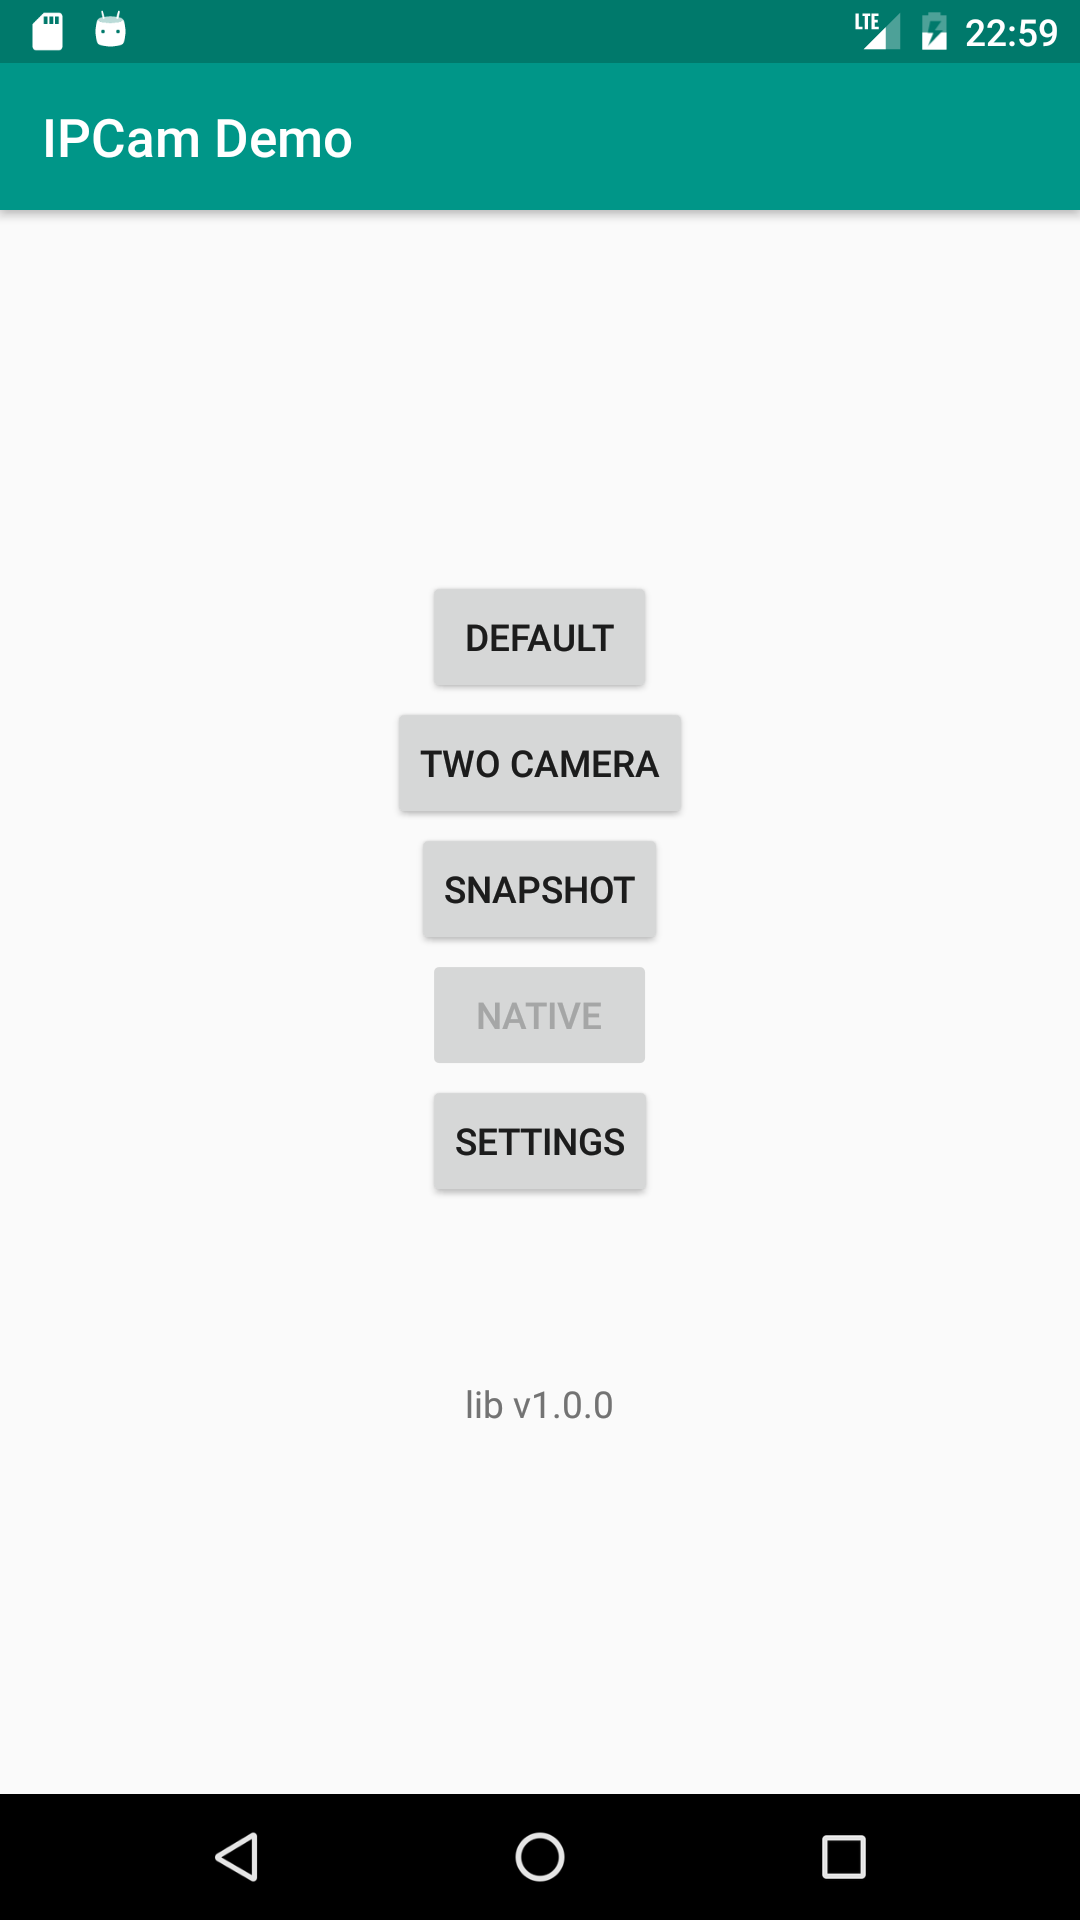
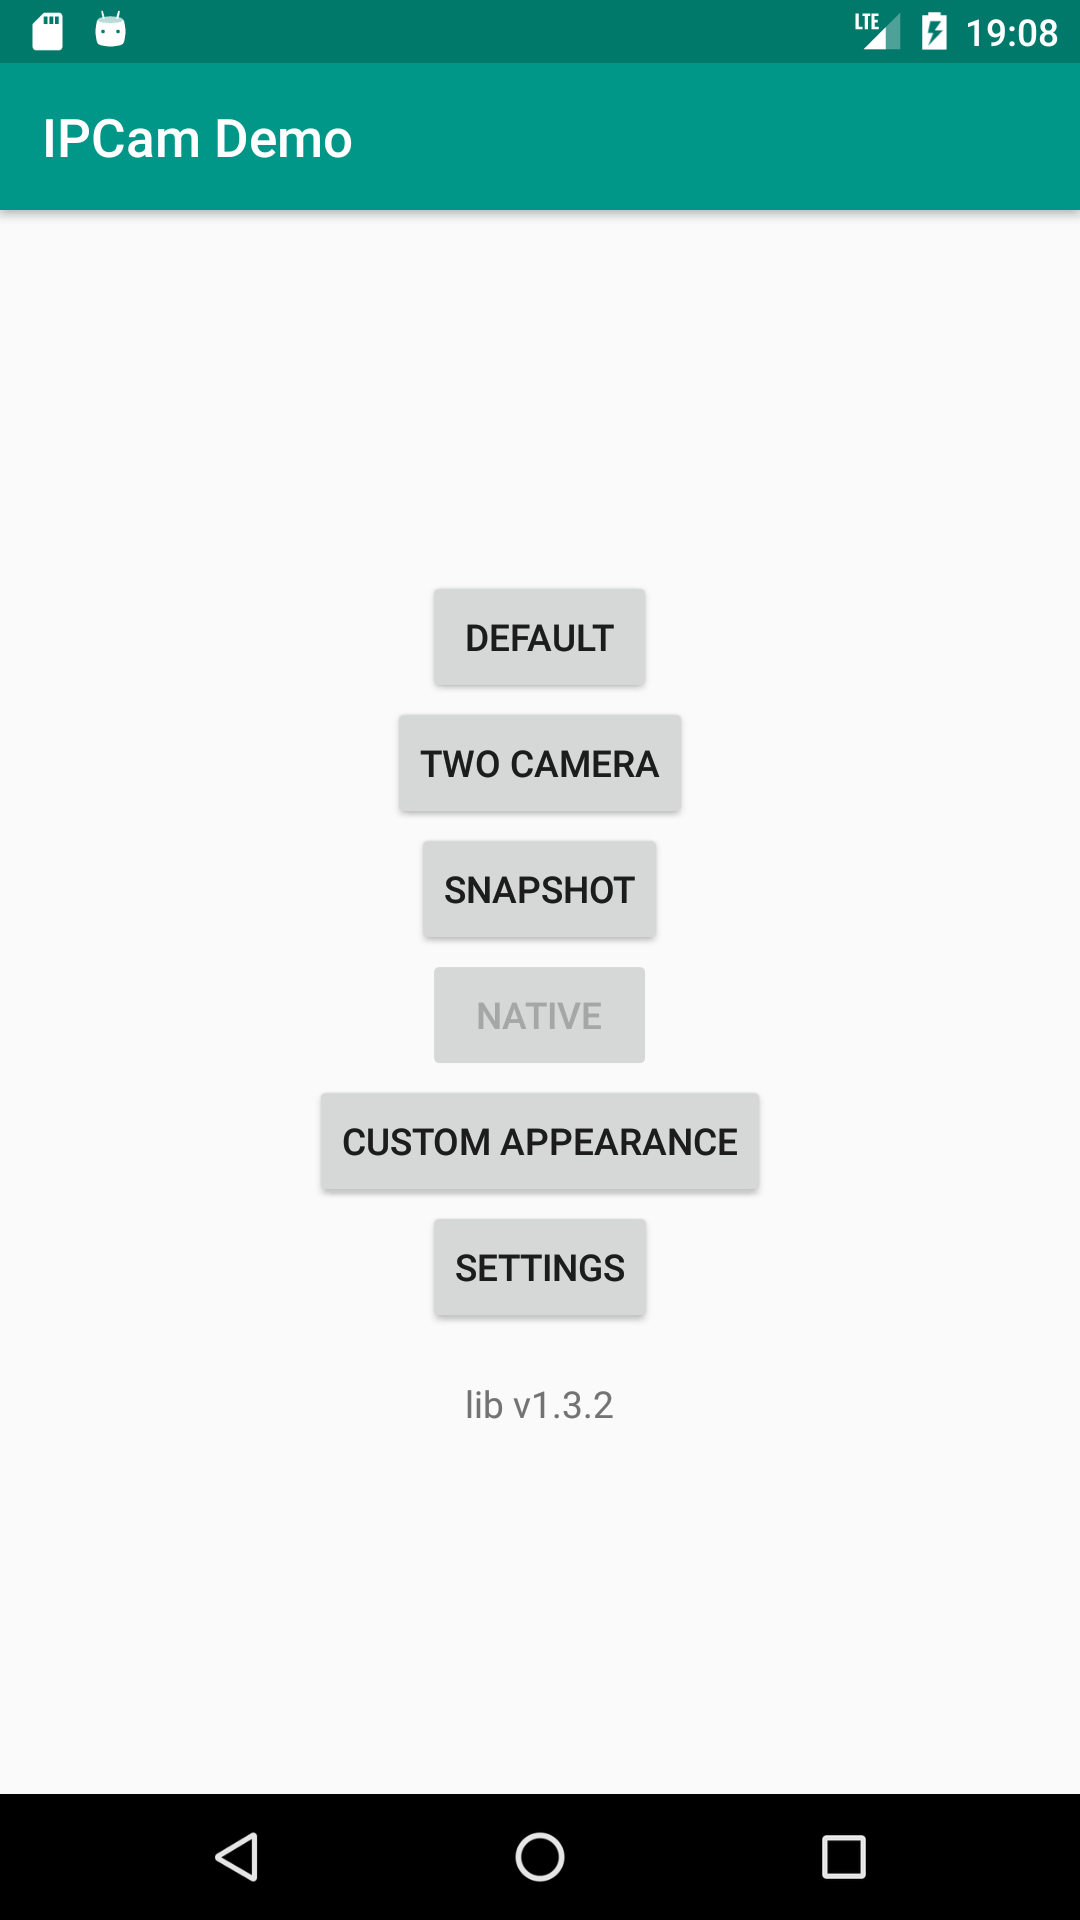
update readme

Changed region(s): [[0.275, 0.5625, 0.7028, 0.6875], [0.8556, 0.0, 0.9778, 0.0312], [0.55, 0.7188, 0.5806, 0.75]]

diff --git a/README.md b/README.md
@@ -17,6 +17,7 @@ If you have problem to identify your IpCam url, please follow this [link](https:
 - [x] Snapshot
 - [x] Flip image
 - [ ] Video recording
+- [x] Custom appearance
 
 ### Demo app
 
@@ -24,7 +25,7 @@ If you have problem to identify your IpCam url, please follow this [link](https:
 
 <img src="images/screenshot-two-camera.png" alt="two-camera" height="600" /> <img src="images/screenshot-snapshot.png" alt="snapshot" height="600" />
 
-<img src="images/screenshot-settings.png" alt="settings" height="600" />
+<img src="images/screenshot-custom-appearance.png" alt="custom-appearance" height="600" /> <img src="images/screenshot-settings.png" alt="settings" height="600" />
 
 
 <a href='https://play.google.com/store/apps/details?id=com.github.niqdev.ipcam&utm_source=global_co&utm_medium=prtnr&utm_content=Mar2515&utm_campaign=PartBadge&pcampaignid=MKT-Other-global-all-co-prtnr-ap-PartBadge-Mar2515-1'><img alt='Get it on Google Play' src='https://play.google.com/intl/en_us/badges/images/apps/en-play-badge.png' width="200"/></a>
@@ -64,43 +65,39 @@ Mjpeg.newInstance()
 ```
 <br />
 
-#### Customize colors
-If you want to get a transparent background for the surface itself (while stream is loading) as well as for the stream background, you can use one of the following ways:
+### Customize appearance
+
+To get a transparent background for the surface itself (while stream is loading) as well as for the stream background
 ```java
 stream:transparentBackground="true"
 ```
 ```java
 mjpegView.setTransparentBackground();
 ```
-<br />
-If you want to hide the MjpegView later, you might need to reset the transparency due to internal behaviour of applying transparency. Use the following method for this purpose.
 
+To hide the MjpegView later, you might need to reset the transparency due to internal behaviour of applying transparency
 ```java
 mjpegView.resetTransparentBackground();
 ```
-For more information on hiding and showing a stream with transparent background have a look at ```IpCamCustomAppearanceActivity``` of the demo app.
 
-<br /><br />
+To set other colors than transparent, be aware that will only be applied on a running stream i.e. you can't change the color of the surface itself which you will see while the stream is loading
+
 You can also set other colors than transparent. Be aware that these colors will only be applied on a running stream. That means you can't change the color of the surface itself which you will see while the stream is loading.
 
-<b>Attention:</b> This only works when ```transparentBackground``` is not set to ```true```. In addition (thanks to SurfaceView) you are not able to directly set transparent background color here.
+Note that it only works when `transparentBackground` is not set to `true` and you are not able to directly set transparent background color here
 ```java
 mjpegView.setCustomBackgroundColor(Color.DKGRAY);
-```
-```java
+// OR
 stream:backgroundColor="@android:color/darker_gray"
 ```
-<br />
-If you wish to change the colors of the fps overlay you can do it via code.
 
+To change the colors of the fps overlay
 ```java
 mjpegView.setFpsOverlayBackgroundColor(Color.DKGRAY);
 mjpegView.setFpsOverlayTextColor(Color.WHITE);
 ```
-<br />
 
-#### Clear current shown picture
-The canvas keeps the current image even if you stop the stream. For example if you stop and hide your stream and start it again later you will see the last image until the new stream is loaded and live. You can clear this last image with the following code.
+To clear the last frame since the canvas keeps the current image even if you stop the stream, e.g. hide/show
 ```java
 mjpegView.clearStream();
 ```
